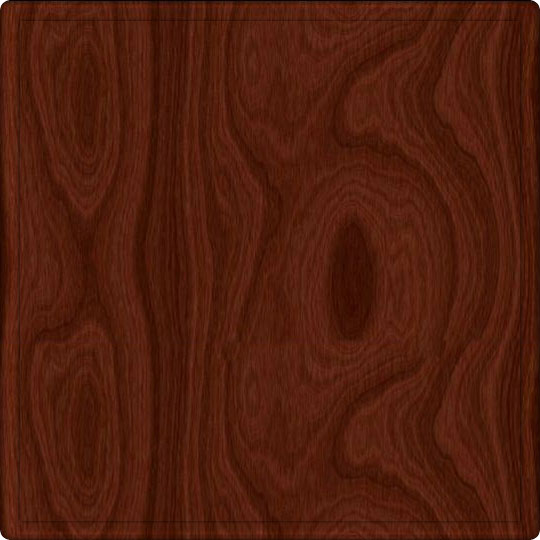
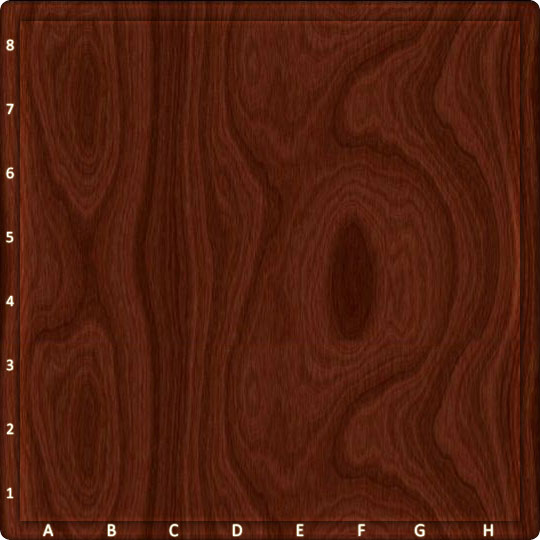
correct board for each side

diff --git a/public/stylesheets/style.css b/public/stylesheets/style.css
@@ -551,7 +551,6 @@ table#moves {
   float: left; }
 
 .chess_board {
-  background: url('../images/board.jpg') no-repeat center ;
   border: 40px solid transparent;
   border-radius: 2px;
   width: 500px;
@@ -584,6 +583,15 @@ table#moves {
 .chess_board tr:nth-child(even) td:nth-child(even),
 .chess_board tr:nth-child(odd) td:nth-child(odd) {
   background: url('../images/whitesquare.jpg');
+}
+
+.chess_board.white
+{
+  background: url('../images/board.jpg') no-repeat center ;
+}
+
+.chess_board.black{
+  background: url('../images/board0.jpg') no-repeat center ;
 }
 
 span.feedback {
